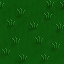
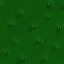
Modified roads and stone

diff --git a/crown/Drawing.cs b/crown/Drawing.cs
@@ -15,7 +15,7 @@ namespace crown {
             for (int x = startCol; x < endCol && x < tileMap.GetUpperBound(0); x++)
                 for (int y = startRow; y < endRow && y < tileMap.GetUpperBound(1); y++) {
                     // Render coords are tile coords times tilesize 
-                    int yPos = tileMap[x, y].Type != TexturePackerMonoGameDefinitions.texturePackerSpriteAtlas.Stone1 ? y * tileSize : y * tileSize - (2 * tileSize);
+                    int yPos = tileMap[x, y].Type != TexturePackerMonoGameDefinitions.texturePackerSpriteAtlas.Stone1 ? y * tileSize : y * tileSize - tileSize;
                     int xPos = x * tileSize;
                     spriteRender.Draw(mapTileSheet.Sprite(tileMap[x, y].Type), new Vector2(xPos, yPos));
                 }

diff --git a/crown/SpriteSheets/tileAtlas.cs b/crown/SpriteSheets/tileAtlas.cs
@@ -4,7 +4,7 @@
  * Contains references to each image within the sprite sheet.
  *
  * http://www.codeandweb.com/texturepacker
- * $TexturePacker:SmartUpdate:ed64d25e5cc3011975286c9660cd6706:5aaddb7f282463fe984c6e9dbda0cfd1:15e80e53d973510bcd3d7c2616e35315$
+ * $TexturePacker:SmartUpdate:9a4e9cffe1f0dc54cad16d271e78b518:9014e6cdfd57844087824efbe9317578:15e80e53d973510bcd3d7c2616e35315$
  *
  */
 namespace TexturePackerMonoGameDefinitions
